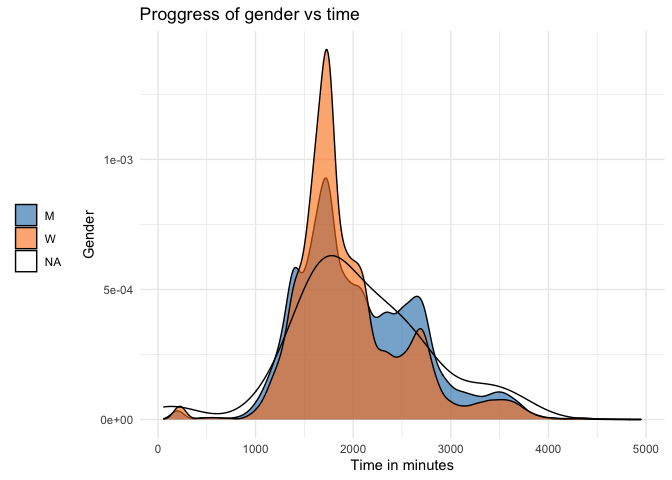
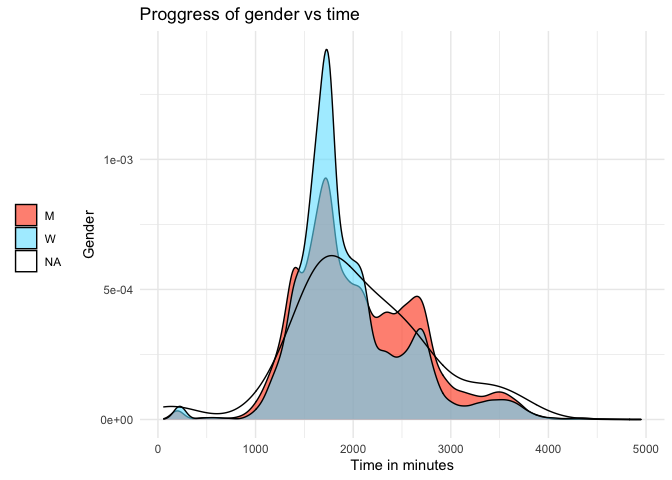
Amalia Fully Commits to her work again :D

Changed region(s): [[0.25, 0.125, 0.8438, 0.875], [0.0, 0.4062, 0.0625, 0.5312]]

diff --git a/2021-2/README.md b/2021-2/README.md
@@ -29,7 +29,7 @@ rankings <- tuesdata$ultra_rankings
 modified_rankings <- rankings %>%
   mutate(time_in_minutes = time_in_seconds / 60)
 
-ggplot(modified_rankings , aes(x = time_in_minutes , fill = gender)) + geom_density(data = modified_rankings , alpha = 0.6) + theme_minimal() + labs(x = "Time in minutes", y = "Gender") + theme( legend.position = "left" , legend.title = element_blank()) + ggtitle("Proggress of gender vs time") + scale_fill_d3()
+ggplot(modified_rankings , aes(x = time_in_minutes , fill = gender)) + geom_density(data = modified_rankings , alpha = 0.6) + theme_minimal() + labs(x = "Time in minutes", y = "Gender") + theme( legend.position = "left" , legend.title = element_blank()) + ggtitle("Proggress of gender vs time") + scale_fill_tron()
 ```
 
     ## Warning: Removed 17791 rows containing non-finite values (stat_density).
